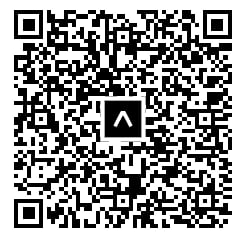
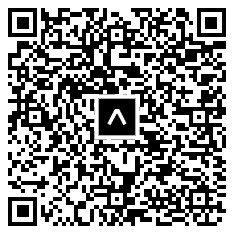
update apk and qr

diff --git a/index.html b/index.html
@@ -1186,7 +1186,7 @@
         <div class="footer-section">
             <h3>Download</h3>
             <ul>
-                <li><a href="https://github.com/danmikel1/capstoneLandingPage/releases/download/v.1.2.1/FitFusion360.apk"><i class="fab fa-android"></i> Download APK (Beta)</a></li>
+                <li><a href="https://github.com/danmikel1/fitfusion360/releases/latest/download/FitFusion360.apk"><i class="fab fa-android"></i> Download APK (Beta)</a></li>
                 <li><button onclick="openModal('iosModal')"><i class="fab fa-apple"></i> Coming Soon (iOS)</button></li>
             </ul>
         </div>
